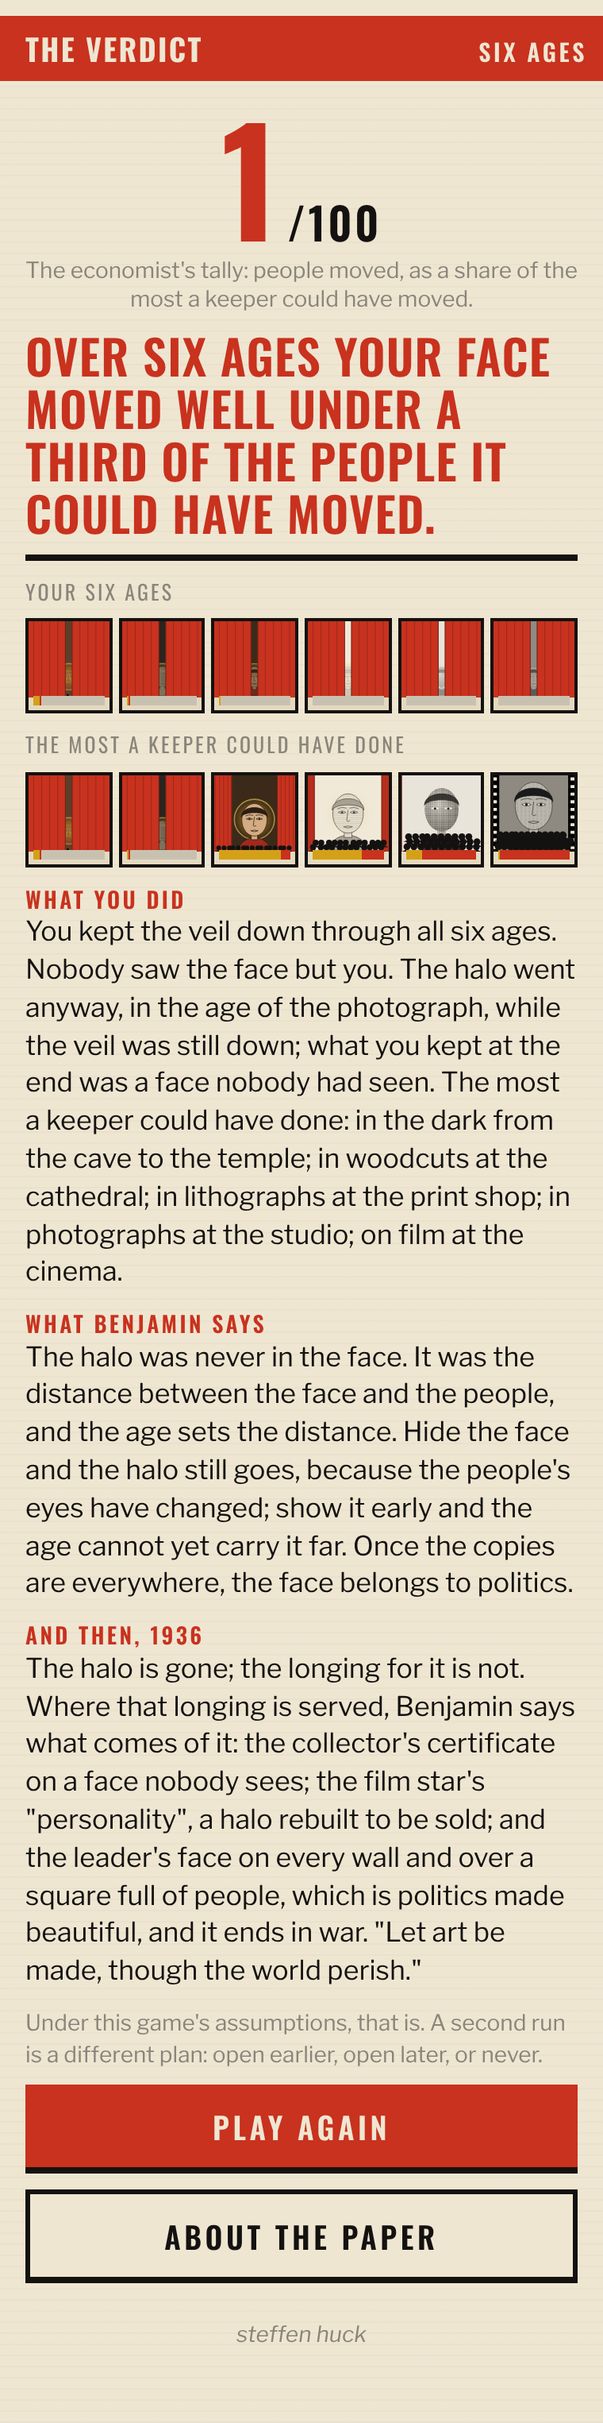
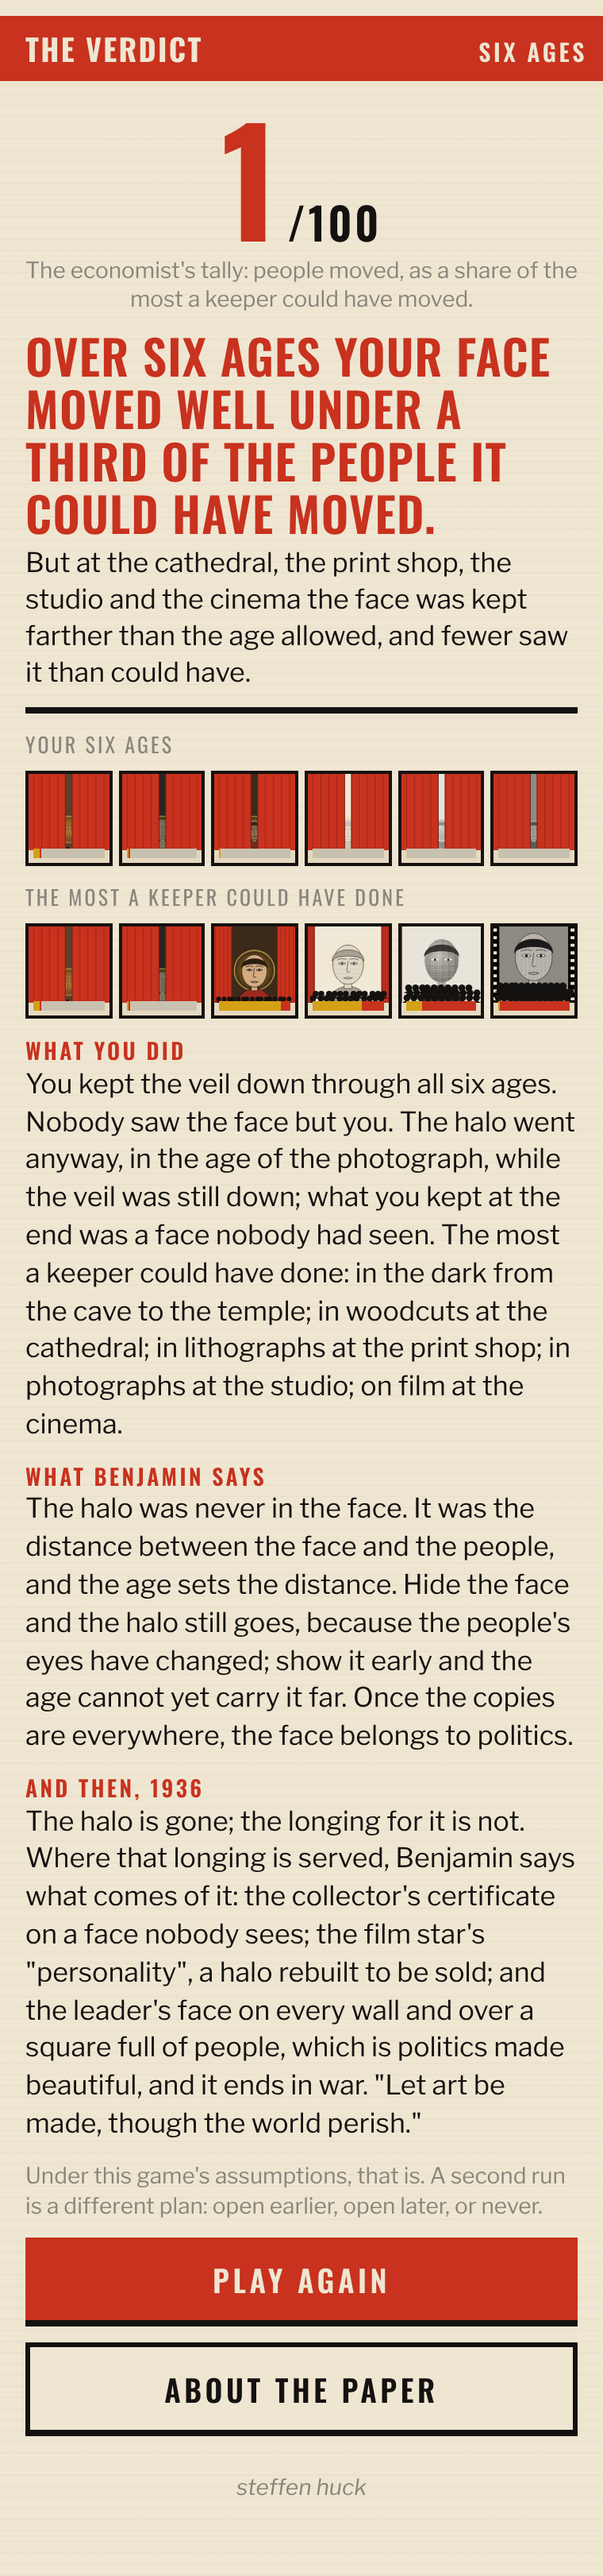
Benjamin's Veil: the verdict says why
Under the score, a diagnosis from the per-age split: where the player fell short of the best path, and whether because the face was kept farther than the age allowed or because the halo had been spent earlier. Silent within three hundredths of the best. Calibration 38/38; memo section 25.

Claude-Session: https://claude.ai/code/session_018niUhvmoniPeYB88hJfUph

diff --git a/benjamin/benjamins-veil.html b/benjamin/benjamins-veil.html
@@ -48,6 +48,7 @@ h2{font-family:var(--display);font-weight:600;text-transform:uppercase;letter-sp
 .score{display:flex;align-items:baseline;justify-content:center;gap:6px;margin:14px 0 2px}
 .score .num{font-family:var(--display);font-weight:700;font-size:92px;line-height:1;color:var(--red)}
 .score .of{font-family:var(--display);font-weight:600;font-size:28px;color:var(--ink);letter-spacing:.06em}
+.lead2{font-size:17px;line-height:1.35;margin:-6px 0 10px;color:var(--ink)}
 .scorelab{text-align:center;font-size:14px;color:var(--grey);margin:0 0 10px;line-height:1.3}
 .striplab{font-family:var(--display);font-size:13px;letter-spacing:.12em;text-transform:uppercase;color:var(--grey);margin-top:10px}
 .slot{flex:1;height:60px;border:2px dotted var(--grey-2);background:transparent;position:relative}
@@ -147,6 +148,7 @@ h2{font-family:var(--display);font-weight:600;text-transform:uppercase;letter-sp
   <div class="score"><span class="num" id="scorenum">0</span><span class="of">/100</span></div>
   <p class="scorelab">The economist's tally: people moved, as a share of the most a keeper could have moved.</p>
   <p class="lead" id="lead"></p>
+  <p class="lead2" id="shortfall"></p>
   <div class="rule"></div>
   <div class="striplab">Your six ages</div>
   <div class="strip" id="endstrip"></div>
@@ -429,6 +431,28 @@ h2{font-family:var(--display);font-weight:600;text-transform:uppercase;letter-sp
     const bits = runs.map(r => veil[r.v] + (r.from === r.to ? ' at ' + names[r.from] : ' from ' + names[r.from] + ' to ' + names[r.to]));
     return 'The most a keeper could have done: ' + bits.join('; ') + '.';
   }
+  // Where the player's ages fell short of the best path's, and why: the mechanism can tell two causes apart. Kept farther
+  // than the age allowed (the best path's veil was wider: fewer saw it), or the halo spent earlier (the veil was as wide or
+  // wider, but the halo they saw it with was thinner than on the best path). One or two sentences; nothing if within a twentieth.
+  function shortfallWords(s, best) {
+    const names = s.cfg.AGES.map(a => a.name.toLowerCase());
+    const rows = s.results.map((r, i) => { const b = best.state.results[i]; return { i, gap: b.hold - r.hold, narrower: r.veil < b.veil, thinner: r.haloArrived < b.haloArrived - 0.02 }; });
+    if (totalHold(s) >= 0.97 * best.total) return '';   // within a few hundredths of the best: nothing to explain
+    const lost = rows.filter(x => x.gap > 0.03 * best.total).sort((a, b) => b.gap - a.gap);
+    if (!lost.length) return '';
+    const list = xs => xs.map(x => names[x.i]).join(xs.length === 2 ? ' and ' : ', ').replace(/, ([^,]*)$/, ' and $1');
+    const narrow = lost.filter(x => x.narrower), thin = lost.filter(x => !x.narrower && x.thinner);
+    const bits = [];
+    if (narrow.length) bits.push('at ' + list(narrow.sort((a, b) => a.i - b.i)) + ' the face was kept farther than the age allowed, and fewer saw it than could have');
+    if (thin.length) {
+      const wider = s.results.map((r, i) => r.veil > best.state.results[i].veil ? i : -1).filter(i => i >= 0);
+      const where = wider.length === 0 ? 'early' : wider.length === 1 ? 'at ' + names[wider[0]] : 'early, from ' + names[wider[0]] + ' on';
+      bits.push('the halo had been spent ' + where + ', so the crowds of ' + list(thin.sort((a, b) => a.i - b.i)) + ' saw a face with little of it left');
+    }
+    if (!bits.length) return '';
+    const t = bits.join('; ');
+    return 'But ' + t.charAt(0) + t.slice(1) + '.';
+  }
   function openedAt(s) { // first age the face went to print or the screen; first age it was lifted at all
     let printed = -1, lifted = -1;
     s.results.forEach(r => { if (lifted < 0 && r.veil > 0) lifted = r.age; if (printed < 0 && r.veil >= 3) printed = r.age; });
@@ -462,6 +486,7 @@ h2{font-family:var(--display);font-weight:600;text-transform:uppercase;letter-sp
       total: total, best: best.total, fraction: f, words: fractionWords(f),
       score: Math.max(0, Math.min(100, Math.round(f * 100))),   // the economist's tally, out of 100: people moved as a share of the most a keeper could have moved
       lead: 'Over six ages your face moved ' + fractionWords(f) + ' of the people it could have moved.',
+      shortfall: shortfallWords(s, best),
       did: pathWords(s) + ' ' + readingOfPath + ' ' + bestPathWords(best, s.cfg),
       benjamin: 'The halo was never in the face. It was the distance between the face and the people, and the age sets the distance. Hide the face and the halo still goes, because the people\'s eyes have changed; show it early and the age cannot yet carry it far. Once the copies are everywhere, the face belongs to politics.',
       epilogue: s.cfg.EPILOGUE,
@@ -496,7 +521,7 @@ h2{font-family:var(--display);font-weight:600;text-transform:uppercase;letter-sp
     return c;
   }
 
-  const api = { CONFIG, newGame, currentAge, isOver, arrive, arrivalLine, options, commit, next, verdict, totalHold, maxHold, bestSchedule, runSchedule, heuristics, withConfig, reachAt, haloAfterVeil, movedOf, ageWeights, ageMax, movedScale, bestPathWords, haloWords, fractionWords, openedAt };
+  const api = { CONFIG, newGame, currentAge, isOver, arrive, arrivalLine, options, commit, next, verdict, totalHold, maxHold, bestSchedule, runSchedule, heuristics, withConfig, reachAt, haloAfterVeil, movedOf, ageWeights, ageMax, movedScale, bestPathWords, shortfallWords, haloWords, fractionWords, openedAt };
   if (typeof module !== 'undefined' && module.exports) module.exports = api; else root.VEIL = api;
 })(typeof window !== 'undefined' ? window : globalThis);
 
@@ -726,7 +751,7 @@ h2{font-family:var(--display);font-weight:600;text-transform:uppercase;letter-sp
   // ---------- the verdict
   function renderEnd() {
     const v = M.verdict(S);
-    $('lead').textContent = v.lead; $('scorenum').textContent = v.score;
+    $('lead').textContent = v.lead; $('scorenum').textContent = v.score; $('shortfall').textContent = v.shortfall; $('shortfall').style.display = v.shortfall ? 'block' : 'none';
     renderStrip($('endstrip'), S);
     renderStrip($('beststrip'), { results: v.bestResults, age: C.AGES.length });
     $('vdid').textContent = v.did; $('vben').textContent = v.benjamin; $('vepi').textContent = v.epilogue;

diff --git a/benjamin/mechanism.js b/benjamin/mechanism.js
@@ -228,6 +228,28 @@
     const bits = runs.map(r => veil[r.v] + (r.from === r.to ? ' at ' + names[r.from] : ' from ' + names[r.from] + ' to ' + names[r.to]));
     return 'The most a keeper could have done: ' + bits.join('; ') + '.';
   }
+  // Where the player's ages fell short of the best path's, and why: the mechanism can tell two causes apart. Kept farther
+  // than the age allowed (the best path's veil was wider: fewer saw it), or the halo spent earlier (the veil was as wide or
+  // wider, but the halo they saw it with was thinner than on the best path). One or two sentences; nothing if within a twentieth.
+  function shortfallWords(s, best) {
+    const names = s.cfg.AGES.map(a => a.name.toLowerCase());
+    const rows = s.results.map((r, i) => { const b = best.state.results[i]; return { i, gap: b.hold - r.hold, narrower: r.veil < b.veil, thinner: r.haloArrived < b.haloArrived - 0.02 }; });
+    if (totalHold(s) >= 0.97 * best.total) return '';   // within a few hundredths of the best: nothing to explain
+    const lost = rows.filter(x => x.gap > 0.03 * best.total).sort((a, b) => b.gap - a.gap);
+    if (!lost.length) return '';
+    const list = xs => xs.map(x => names[x.i]).join(xs.length === 2 ? ' and ' : ', ').replace(/, ([^,]*)$/, ' and $1');
+    const narrow = lost.filter(x => x.narrower), thin = lost.filter(x => !x.narrower && x.thinner);
+    const bits = [];
+    if (narrow.length) bits.push('at ' + list(narrow.sort((a, b) => a.i - b.i)) + ' the face was kept farther than the age allowed, and fewer saw it than could have');
+    if (thin.length) {
+      const wider = s.results.map((r, i) => r.veil > best.state.results[i].veil ? i : -1).filter(i => i >= 0);
+      const where = wider.length === 0 ? 'early' : wider.length === 1 ? 'at ' + names[wider[0]] : 'early, from ' + names[wider[0]] + ' on';
+      bits.push('the halo had been spent ' + where + ', so the crowds of ' + list(thin.sort((a, b) => a.i - b.i)) + ' saw a face with little of it left');
+    }
+    if (!bits.length) return '';
+    const t = bits.join('; ');
+    return 'But ' + t.charAt(0) + t.slice(1) + '.';
+  }
   function openedAt(s) { // first age the face went to print or the screen; first age it was lifted at all
     let printed = -1, lifted = -1;
     s.results.forEach(r => { if (lifted < 0 && r.veil > 0) lifted = r.age; if (printed < 0 && r.veil >= 3) printed = r.age; });
@@ -261,6 +283,7 @@
       total: total, best: best.total, fraction: f, words: fractionWords(f),
       score: Math.max(0, Math.min(100, Math.round(f * 100))),   // the economist's tally, out of 100: people moved as a share of the most a keeper could have moved
       lead: 'Over six ages your face moved ' + fractionWords(f) + ' of the people it could have moved.',
+      shortfall: shortfallWords(s, best),
       did: pathWords(s) + ' ' + readingOfPath + ' ' + bestPathWords(best, s.cfg),
       benjamin: 'The halo was never in the face. It was the distance between the face and the people, and the age sets the distance. Hide the face and the halo still goes, because the people\'s eyes have changed; show it early and the age cannot yet carry it far. Once the copies are everywhere, the face belongs to politics.',
       epilogue: s.cfg.EPILOGUE,
@@ -295,6 +318,6 @@
     return c;
   }
 
-  const api = { CONFIG, newGame, currentAge, isOver, arrive, arrivalLine, options, commit, next, verdict, totalHold, maxHold, bestSchedule, runSchedule, heuristics, withConfig, reachAt, haloAfterVeil, movedOf, ageWeights, ageMax, movedScale, bestPathWords, haloWords, fractionWords, openedAt };
+  const api = { CONFIG, newGame, currentAge, isOver, arrive, arrivalLine, options, commit, next, verdict, totalHold, maxHold, bestSchedule, runSchedule, heuristics, withConfig, reachAt, haloAfterVeil, movedOf, ageWeights, ageMax, movedScale, bestPathWords, shortfallWords, haloWords, fractionWords, openedAt };
   if (typeof module !== 'undefined' && module.exports) module.exports = api; else root.VEIL = api;
 })(typeof window !== 'undefined' ? window : globalThis);

diff --git a/benjamin/template.html b/benjamin/template.html
@@ -48,6 +48,7 @@ h2{font-family:var(--display);font-weight:600;text-transform:uppercase;letter-sp
 .score{display:flex;align-items:baseline;justify-content:center;gap:6px;margin:14px 0 2px}
 .score .num{font-family:var(--display);font-weight:700;font-size:92px;line-height:1;color:var(--red)}
 .score .of{font-family:var(--display);font-weight:600;font-size:28px;color:var(--ink);letter-spacing:.06em}
+.lead2{font-size:17px;line-height:1.35;margin:-6px 0 10px;color:var(--ink)}
 .scorelab{text-align:center;font-size:14px;color:var(--grey);margin:0 0 10px;line-height:1.3}
 .striplab{font-family:var(--display);font-size:13px;letter-spacing:.12em;text-transform:uppercase;color:var(--grey);margin-top:10px}
 .slot{flex:1;height:60px;border:2px dotted var(--grey-2);background:transparent;position:relative}
@@ -147,6 +148,7 @@ h2{font-family:var(--display);font-weight:600;text-transform:uppercase;letter-sp
   <div class="score"><span class="num" id="scorenum">0</span><span class="of">/100</span></div>
   <p class="scorelab">The economist's tally: people moved, as a share of the most a keeper could have moved.</p>
   <p class="lead" id="lead"></p>
+  <p class="lead2" id="shortfall"></p>
   <div class="rule"></div>
   <div class="striplab">Your six ages</div>
   <div class="strip" id="endstrip"></div>
@@ -412,7 +414,7 @@ h2{font-family:var(--display);font-weight:600;text-transform:uppercase;letter-sp
   // ---------- the verdict
   function renderEnd() {
     const v = M.verdict(S);
-    $('lead').textContent = v.lead; $('scorenum').textContent = v.score;
+    $('lead').textContent = v.lead; $('scorenum').textContent = v.score; $('shortfall').textContent = v.shortfall; $('shortfall').style.display = v.shortfall ? 'block' : 'none';
     renderStrip($('endstrip'), S);
     renderStrip($('beststrip'), { results: v.bestResults, age: C.AGES.length });
     $('vdid').textContent = v.did; $('vben').textContent = v.benjamin; $('vepi').textContent = v.epilogue;

diff --git a/benjamin/calibration.js b/benjamin/calibration.js
@@ -95,8 +95,9 @@ check('P7d under all five the best path never narrows the veil', variants.every(
 const strings = [];
 C.AGES.forEach(a => { strings.push(a.name, a.date, a.newThis, a.eyesLine || ''); a.crowd.forEach(c => strings.push(c)); });
 C.VEILS.forEach(v => strings.push(v.label, v.who)); strings.push(C.EPILOGUE);
-const s = M.newGame(); for (let i = 0; i < 6; i++) { M.arrive(s); strings.push(M.arrivalLine(s)); strings.push(M.commit(s, Math.min(i < 2 ? 0 : i + 1, C.AGES[i].ceiling)).line); M.next(s); } const v = M.verdict(s); strings.push(v.lead, v.did, v.benjamin, v.epilogue);
+const s = M.newGame(); for (let i = 0; i < 6; i++) { M.arrive(s); strings.push(M.arrivalLine(s)); strings.push(M.commit(s, Math.min(i < 2 ? 0 : i + 1, C.AGES[i].ceiling)).line); M.next(s); } const v = M.verdict(s); strings.push(v.lead, v.did, v.benjamin, v.epilogue, v.shortfall);
 check('S the score is the fraction out of 100: the best path scores 100, always veiled under 5', M.verdict(M.runSchedule([0, 0, 3, 4, 5, 6])).score === 100 && M.verdict(M.runSchedule([0, 0, 0, 0, 0, 0])).score < 5, M.verdict(M.runSchedule([0, 0, 0, 0, 0, 0])).score + '');
+check('S2 the shortfall names the cause: early opening is read as halo spent, hoarding as kept farther', /halo had been spent/.test(M.verdict(M.runSchedule([0, 2, 3, 4, 5, 6])).shortfall) && /kept farther/.test(M.verdict(M.runSchedule([0, 0, 0, 0, 5, 6])).shortfall) && M.verdict(M.runSchedule([0, 0, 3, 4, 5, 6])).shortfall === '');
 check('W no decimals in any string the screen shows', strings.every(t => !/\d\.\d/.test(t)));
 check('W2 every slab has a label and a meaning, and the epilogue ends on Benjamin\'s line', C.VEILS.every(x => x.label && x.who) && /though the world perish/.test(C.EPILOGUE));
 check('W3 every age has a technique, a line for what is new, and a crowd word up to its ceiling', C.AGES.every(a => a.technique && a.newThis && a.crowd.slice(0, a.ceiling + 1).every(c => c)));

diff --git a/benjamin/session-test.js b/benjamin/session-test.js
@@ -58,7 +58,7 @@ const L = []; const say = s => { L.push(s); console.log(s); };
     await page.click('#nextage'); await page.waitForTimeout(300);
   }
   await page.waitForTimeout(300); await shot('end'); await noScroll();   // the last Next age is The verdict
-  say('\n== VERDICT: ' + await text('#scorenum') + '/100 · ' + await text('#lead'));
+  say('\n== VERDICT: ' + await text('#scorenum') + '/100 · ' + await text('#lead') + ' ' + await text('#shortfall'));
   say('   ' + await text('#vdid')); say('   ' + await text('#vben')); say('   ' + await text('#vepi')); say('   ' + await text('#vbest'));
   await page.click('#aboutbtn2'); await page.waitForTimeout(200); await shot('about'); await page.click('#aboutback'); await page.waitForTimeout(200);
   say('   about opened and returned to ' + await page.$eval('.screen.on', e => e.id));

diff --git a/benjamin/memo.md b/benjamin/memo.md
@@ -272,3 +272,7 @@ The author: the strip of past ages must show the actual past, and the strip at t
 ## 24. The number (31 Oct 2026)
 
 The author: the machinery computes a target, and the verdict said it only in words. Now the verdict opens with the economist's tally, large: the people moved as a share of the most a keeper could have moved, out of 100 (the best path 100, always veiled 1), labelled as what it is, with Benjamin's words beneath it. The juxtaposition is the point: a number for the keeper's craft, and a page of prose for what the number cannot hold. The words still carry the fraction ("about four fifths"), so the number and the sentence agree. A sweep of the miniatures (top strip, both verdict strips, the counterfactual row, each against the frame as the age ended) found them identical in the DOM.
+
+## 25. The verdict says why (31 Oct 2026)
+
+The author: "moved all the people it could have moved" points the wrong way when the halo was lost early; and do we need an apparatus that measures how much people are moved by the halo? We have it: every age is split into the part the halo did and the part being seen did, for the player's path and for the best path. The verdict now uses the comparison. It finds the ages where the player fell short of the best path by more than a thirtieth of the best total and names the cause the mechanism can tell apart: the face kept farther than the age allowed (the best path's veil was wider: fewer saw it), or the halo spent earlier (the veil as wide or wider, but the halo they saw it with thinner). One or two sentences under the score: "But the halo had been spent at the temple, so the crowds of the cathedral and the print shop saw a face with little of it left." / "But at the cathedral and the print shop the face was kept farther than the age allowed, and fewer saw it than could have." Nothing is said within three hundredths of the best. Calibration 38/38.
